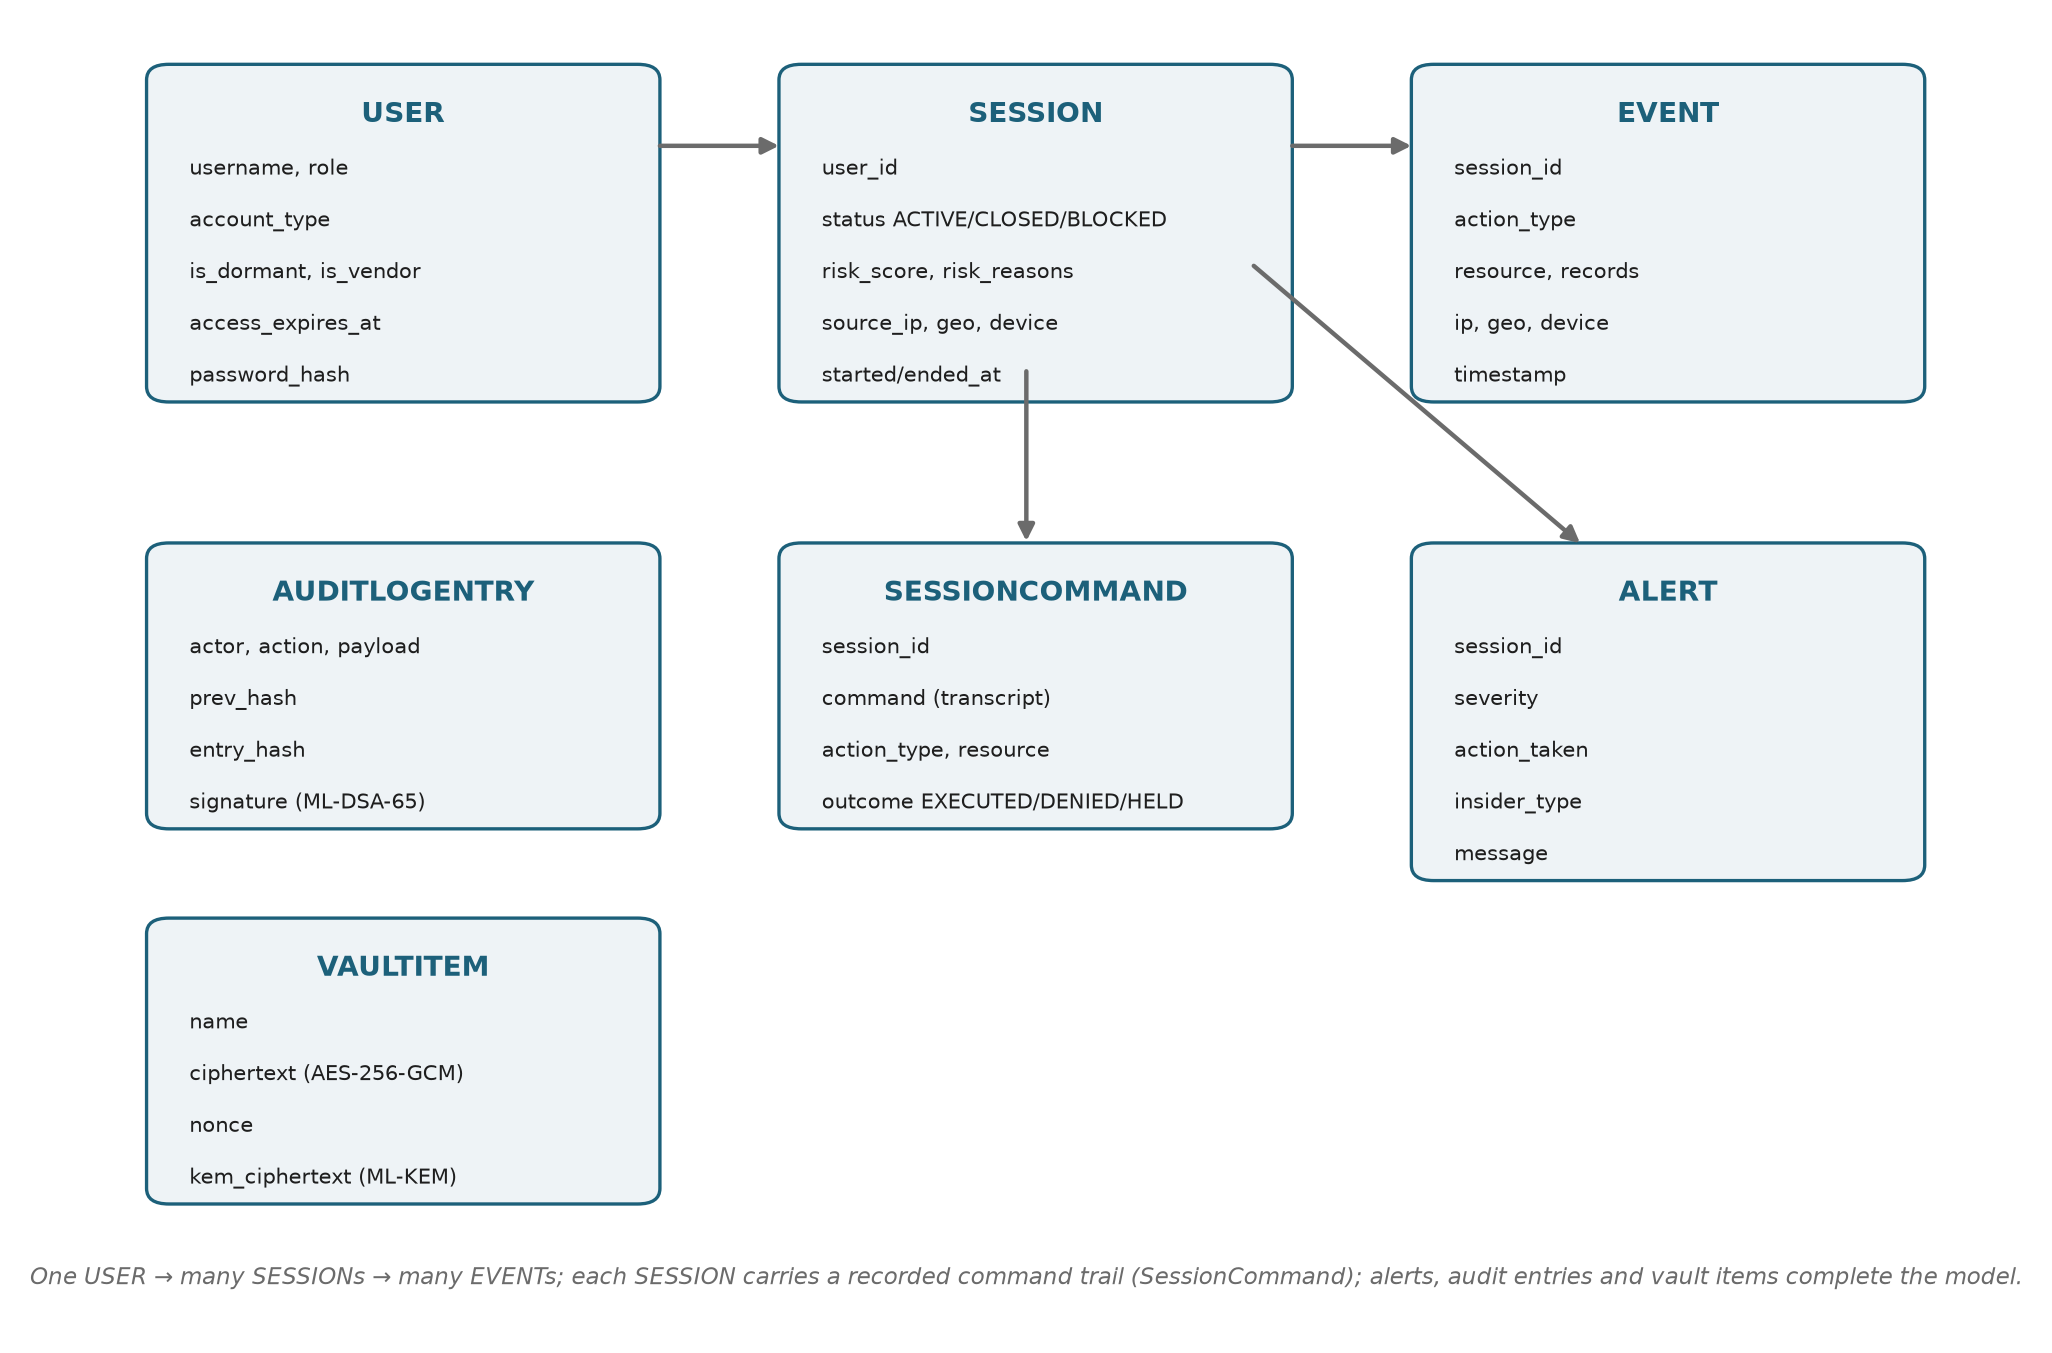
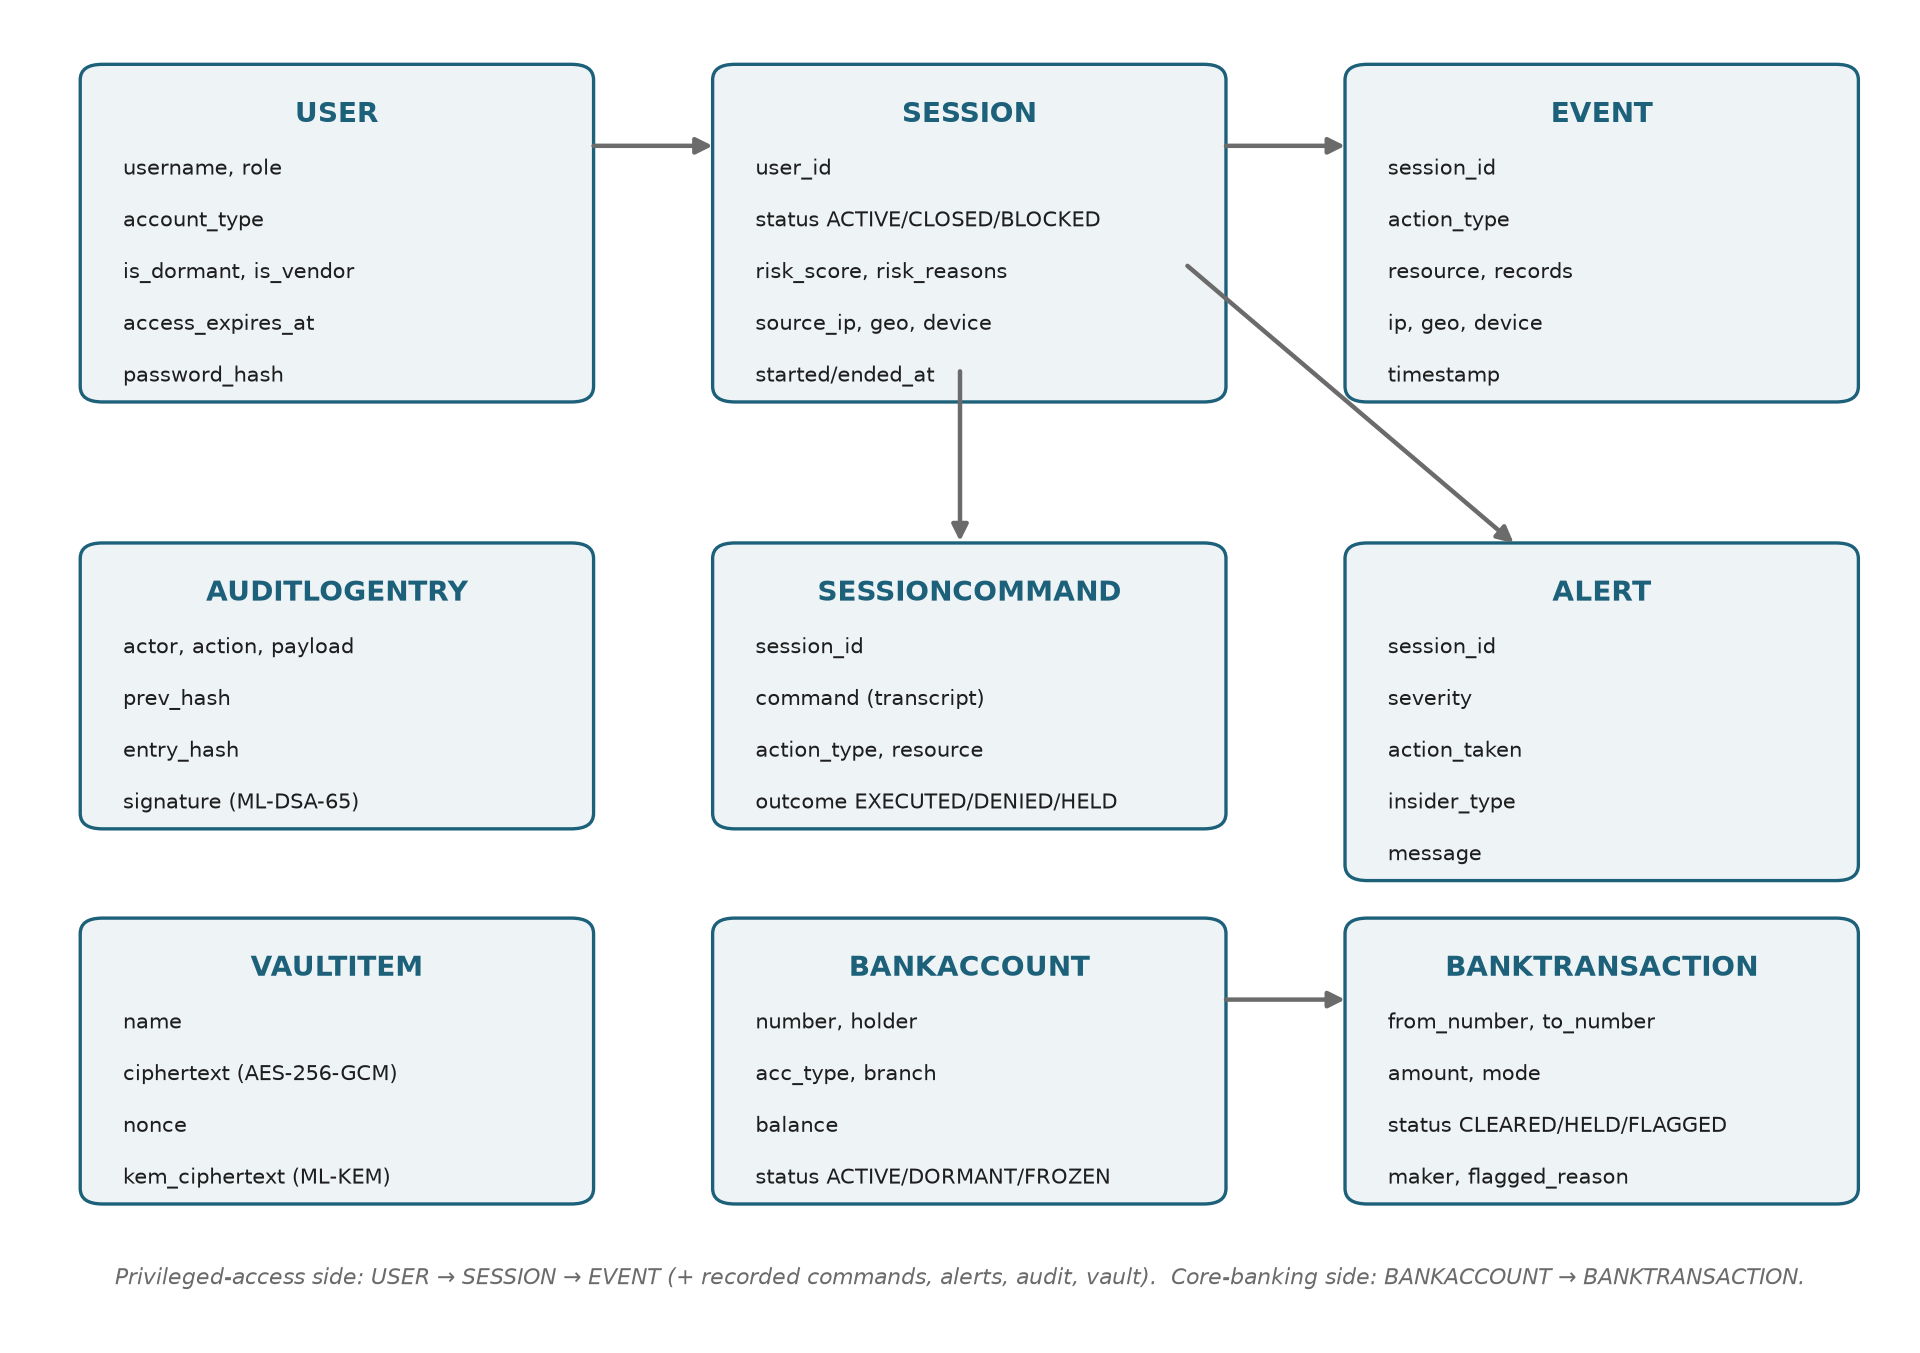
Docs: cover banking desk, portable PQC, model insights & analyst actions
- Technical doc + presentation guide updated to match the shipped product
- New Core-Banking section + 8th diagram (bank_flow); 9 entities in the data model
- Pure-Python PQC fallback (no compiler) documented across both docs
- SOC analyst Lock/Approve/Dismiss, AI Model Insights, impact metrics
- Test count 31 -> 40; two-computer LAN demo note
- Rebuilt both PDFs + DOCX (8 diagrams embedded each)

diff --git a/DOCS/build_diagrams.py b/DOCS/build_diagrams.py
@@ -100,16 +100,40 @@ def datamodel():
     ent(3, 60, "AUDITLOGENTRY", ["actor, action, payload", "prev_hash", "entry_hash", "signature (ML-DSA-65)"])
     ent(37, 60, "SESSIONCOMMAND", ["session_id", "command (transcript)", "action_type, resource", "outcome EXECUTED/DENIED/HELD"])
     ent(71, 60, "ALERT", ["session_id", "severity", "action_taken", "insider_type", "message"])
-    # bottom row
+    # bottom row — vault + the two core-banking tables
     ent(3, 31, "VAULTITEM", ["name", "ciphertext (AES-256-GCM)", "nonce", "kem_ciphertext (ML-KEM)"])
+    ent(37, 31, "BANKACCOUNT", ["number, holder", "acc_type, branch", "balance", "status ACTIVE/DORMANT/FROZEN"])
+    ent(71, 31, "BANKTRANSACTION", ["from_number, to_number", "amount, mode", "status CLEARED/HELD/FLAGGED", "maker, flagged_reason"])
     # relationships
     arrow(ax, 30, 91, 37, 91, GREY); arrow(ax, 64, 91, 71, 91, GREY)
     arrow(ax, 50, 74, 50, 60, GREY)          # SESSION -> SESSIONCOMMAND
     arrow(ax, 62, 82, 80, 60, GREY)          # SESSION -> ALERT
-    ax.text(50, 3, "One USER → many SESSIONs → many EVENTs; each SESSION carries a recorded command trail (SessionCommand); "
-            "alerts, audit entries and vault items complete the model.",
-            ha="center", color=GREY, fontsize=8.2, style="italic")
+    arrow(ax, 64, 25, 71, 25, GREY)          # BANKACCOUNT -> BANKTRANSACTION
+    ax.text(50, 3, "Privileged-access side: USER → SESSION → EVENT (+ recorded commands, alerts, audit, vault).  "
+            "Core-banking side: BANKACCOUNT → BANKTRANSACTION.",
+            ha="center", color=GREY, fontsize=8.0, style="italic")
     save(fig, "datamodel.png")
+
+
+# ---------------------------------------------------------------- banking flow
+def bank_flow():
+    fig, ax = canvas(12, 4.8)
+    box(ax, 3, 60, 22, 16, "Employee submits\ntransfer\n(from → payee, ₹amount)", GREY, fs=9)
+    box(ax, 31, 60, 22, 16, "Banking controls\nfunds · limits · fraud ·\nsession risk", BLUE, fs=9)
+    arrow(ax, 25, 68, 31, 68)
+    outs = [
+        ("CLEARED", GREEN, "white", "money moves,\nledger posted", 60),
+        ("HELD", ORANGE, "white", "maker-checker:\n> ₹2,00,000 held\nfor 2nd approver", 60),
+        ("FLAGGED", RED, "white", "suspected fraud:\nwatch-list / huge /\nhigh-risk session →\nheld + SOC alert", 60),
+    ]
+    ys = [78, 55, 30]
+    for (lbl, col, tc, desc, _), y in zip(outs, ys):
+        box(ax, 62, y, 15, 11, lbl, col, tc=tc, fs=10)
+        box(ax, 79, y, 18, 11, desc, "#F2F2F0", tc=INK, fs=7.4, bold=False, ec="#DDD")
+        arrow(ax, 53, 68, 62, y + 5.5, col if lbl != "CLEARED" else GREEN)
+    ax.text(50, 6, "Held & flagged transfers raise a colour-coded SOC alert and are sealed into the ML-DSA-65 audit chain.",
+            ha="center", color=GREY, fontsize=8.4, style="italic")
+    save(fig, "bank_flow.png")
 
 
 # ---------------------------------------------------------------- scoring
@@ -216,5 +240,5 @@ def live_sequence():
 
 if __name__ == "__main__":
     architecture(); datamodel(); scoring(); insider_types()
-    pqc_vault(); audit_chain(); live_sequence()
+    pqc_vault(); audit_chain(); live_sequence(); bank_flow()
     print("all diagrams written to", OUT)

diff --git a/DOCS/documentation_src.md b/DOCS/documentation_src.md
@@ -14,7 +14,7 @@ date: "Repository: github.com/positromen/FinSpark-26-Trial"
 - **Responds** adaptively — **ALLOW / STEP-UP MFA / MAKER-CHECKER / BLOCK** — tagged with the detected **insider type**.
 - **Protects** its own credentials and audit log with **NIST post-quantum cryptography** (ML-KEM-768 vault and ML-DSA-65 signed hash-chain).
 
-It ships as a real two-sided product: an **Employee Portal** where staff act and enforcement happens live, and a **SOC Console** where analysts watch, replay sessions, review access, and verify the audit chain. It runs **fully offline** on SQLite and is one connection string away from PostgreSQL.
+It ships as a real two-sided product: an **Employee Portal** — a working core-banking desk (accounts, payments, transactions, approvals) where staff act and both fraud controls and insider enforcement happen live — and a **SOC Console** where analysts watch, replay sessions, review access, lock or clear a session, and verify the audit chain. It runs **fully offline** on SQLite and is one connection string away from PostgreSQL. The post-quantum layer needs **no compiler**: it auto-selects a native library when present and falls back to a pure-Python implementation otherwise, so any teammate can launch it.
 
 **All six judged outcomes are delivered:** detect misuse of privileged accounts; identify insider threats in real time; AI-driven behavioural analysis; risk-based access control; protect critical administrative systems; and quantum-proof cryptography for credentials and audit artefacts.
 
@@ -56,20 +56,20 @@ The Employee Portal, and in production any PAM/SIEM feed, map onto the same norm
 | Backend / API | Python 3.14, FastAPI + Uvicorn |
 | Storage | SQLAlchemy ORM · SQLite (default) -> PostgreSQL-swappable |
 | AI / UEBA | scikit-learn IsolationForest + peer baselining |
-| Post-quantum crypto | liboqs-python — ML-KEM-768 (FIPS 203), ML-DSA-65 (FIPS 204); AES-256-GCM |
+| Post-quantum crypto | ML-KEM-768 (FIPS 203), ML-DSA-65 (FIPS 204); AES-256-GCM. Native liboqs when present, else pure-Python (kyber-py / dilithium-py) — no compiler |
 | Authentication | PBKDF2-HMAC-SHA256 passwords + HMAC-signed tokens (standard library) |
 | Real-time | FastAPI WebSocket |
 | Frontend | React 19 + Vite + Tailwind 4 (+ Recharts) |
 | Packaging | Docker + docker-compose · run.ps1 / run.sh |
-| Testing | pytest (31 tests) |
+| Testing | pytest (40 tests) |
 
 # Data Model
 
-Seven ORM entities capture the workforce, their recorded sessions and actions, the detection output, and the post-quantum artefacts.
+Nine ORM entities capture the workforce, their recorded sessions and actions, the detection output, the post-quantum artefacts, and the core-banking ledger.
 
-![Entity model — users, sessions, events, recorded commands, alerts, audit entries and vault items.](img/datamodel.png){width=100%}
+![Entity model — users, sessions, events, recorded commands, alerts, audit entries, vault items, and the bank accounts and transactions.](img/datamodel.png){width=100%}
 
-`SessionCommand` is the **privileged-session recording**: every action writes a realistic command line (for example, `psql core-banking-db -c "COPY customers TO '/tmp/out.csv' CSV;" -- 5000 rows`) with an outcome, so a session replays like a terminal transcript.
+`BankAccount` and `BankTransaction` are the **core-banking ledger** that the Employee Portal reads and writes (see *Core Banking Operations*); `SessionCommand` is the **privileged-session recording**: every action writes a realistic command line (for example, `psql core-banking-db -c "COPY customers TO '/tmp/out.csv' CSV;" -- 5000 rows`) with an outcome, so a session replays like a terminal transcript.
 
 **Seeded cast** (all password `prahari123`):
 
@@ -161,9 +161,41 @@ Key safety properties:
 - **Access review** (`GET /soc/access-review`) — every privileged account with standing-risk flags (DORMANT / VENDOR / EXPIRED) and a risk rating, surfacing lingering access *before* anything happens.
 - **Maker-checker approval** (`POST /soc/sessions/{id}/approve`) — an analyst approves a held session; the approval is written to the signed audit log.
 
+## Analyst response actions
+
+The SOC Console turns a flagged session into a one-click decision, each written to the signed audit log and broadcast live:
+
+- **Lock account** (`POST /soc/sessions/{id}/lock`) — force-blocks the session and disables the account; the next login is refused.
+- **Approve / clear** (`POST /soc/sessions/{id}/approve`) — releases a held session for the maker-checker path.
+- **Dismiss** (`POST /soc/sessions/{id}/dismiss`) — marks a flag as a reviewed false-positive and clears it from the live board.
+
+## Explainable model view
+
+- **Model card** (`GET /soc/sessions/{id}/model`) — the UEBA feature breakdown for the session: each feature's value, the user's own baseline, the peer baseline, and its contribution to the anomaly, so an analyst sees *why the model reacted*, not just the number.
+- **Risk trajectory** (`GET /soc/sessions/{id}/trajectory`) — the score after each action, rendered as a sparkline, showing exactly where the session crossed a response threshold.
+- **Impact metrics** (`GET /soc/metrics`) — a live strip of program impact: sessions watched, threats blocked, money held or flagged, and mean time to decision.
+
+# Core Banking Operations
+
+The Employee Portal is a **working core-banking desk**, not a mock: staff open accounts, move money, and clear approvals against a real ledger (`BankAccount`, `BankTransaction`). This is what makes insider risk concrete — the same transfer that a portal user submits is the one Prahari scores and, when needed, holds or blocks.
+
+![Core-banking flow — a transfer is checked for fraud and privileged-session risk, then cleared, held for maker-checker, or flagged.](img/bank_flow.png){width=100%}
+
+Every transfer (`POST /bank/transfer`) runs three gates in `app/bank.py` before money moves:
+
+| Outcome | Trigger | Effect |
+|---|---|---|
+| **FLAGGED** (fraud) | watchlisted beneficiary, amount >= Rs 10,00,000, or live session risk >= 70 | money does **not** move; a **CRITICAL** alert is raised to the SOC |
+| **HELD** (maker-checker) | amount > Rs 2,00,000 | money does **not** move; queued for a second officer to approve or reject |
+| **CLEARED** | none of the above, sufficient funds, active source account | money moves immediately |
+
+Insufficient funds or a frozen source account are refused outright. Held transfers settle only on `POST /bank/transactions/{id}/approve` (a different officer) and reverse on `.../reject`. A high-value or fraudulent transfer **flashes a banner** in the portal and surfaces as a typed alert in the SOC, closing the loop between the banking floor and the analyst.
+
 # Post-Quantum Security Layer
 
 All post-quantum operations sit behind one abstraction, `app/security/pqc.py`, exposing `kem_keypair`, `kem_encapsulate`, `kem_decapsulate`, `sign`, and `verify` over **ML-KEM-768** (FIPS 203) and **ML-DSA-65** (FIPS 204).
+
+**Portable by design — no compiler required.** The module selects a provider at import time: a **native liboqs** binding if one is installed, otherwise a **pure-Python** implementation (`kyber-py` / `dilithium-py`). Nothing to build, no C toolchain, no `cmake` — so a teammate cloning the repo never hits the *"No oqs shared libraries found"* wall. `GET /pqc/info` reports the active provider, and `PRAHARI_PQC=pure` forces the fallback for a reproducible demo. The two providers are interchangeable and the same FIPS algorithms and test suite cover both.
 
 ## Credential vault
 
@@ -200,7 +232,17 @@ This layer is demo-grade by design; a production deployment swaps in the bank's 
 | GET | /soc/access-review | analyst | PAM dormant / vendor / expired table |
 | GET | /soc/sessions/{id}/commands | analyst | session recording replay |
 | GET | /soc/sessions/{id}/events | analyst | session events |
-| POST | /soc/sessions/{id}/approve | analyst | maker-checker approval |
+| POST | /soc/sessions/{id}/approve | analyst | approve / clear a held session |
+| POST | /soc/sessions/{id}/lock | analyst | force-block session + disable account |
+| POST | /soc/sessions/{id}/dismiss | analyst | mark a flag reviewed (false-positive) |
+| GET | /soc/sessions/{id}/model | analyst | UEBA feature breakdown (explainable) |
+| GET | /soc/sessions/{id}/trajectory | analyst | per-action score trajectory |
+| GET | /soc/metrics | analyst | live impact metrics strip |
+| GET | /bank/accounts, /transactions | employee | account list / ledger |
+| GET | /bank/pending, /beneficiaries | employee | held queue / payees |
+| POST | /bank/transfer | employee | submit a transfer -> fraud + risk gated |
+| POST | /bank/transactions/{id}/approve | employee | settle a held transfer (second officer) |
+| POST | /bank/transactions/{id}/reject | employee | reverse a held transfer |
 | POST | /demo/scenario/{kind} | analyst | run scripted malicious / compromised / negligent |
 | POST | /demo/tamper | analyst | edit an audit entry (proves detection) |
 | GET | /audit, /audit/verify | analyst | list / verify the signed chain |
@@ -216,8 +258,8 @@ Interactive API docs are served at `/docs` (FastAPI / OpenAPI).
 React 19 + Vite + Tailwind 4, dark SOC theme, served by FastAPI from `frontend/dist` (same-origin, offline).
 
 - **Login** (`pages/Login.jsx`) — role-routed, with a demo-account helper.
-- **Employee Portal** (`pages/Portal.jsx`) — action console, connection badge, live risk gauge, activity timeline, MFA modal, maker-checker banner, and a full-screen BLOCK overlay.
-- **SOC Console** (`pages/SocConsole.jsx`) — three scenario buttons, an audit banner, and panels: live sessions (typed), risk gauge, why-flagged, alerts (typed), timeline, session recording (terminal replay), heatmap, and access review.
+- **Employee Portal** (`pages/Portal.jsx`) — a working banking desk (Accounts, Payments, Transactions, Approvals) with a fraud/high-value **flash banner** and live KPIs, plus the privileged-action console: connection badge, live risk gauge, activity timeline, MFA modal, maker-checker banner, and a full-screen BLOCK overlay.
+- **SOC Console** (`pages/SocConsole.jsx`) — three scenario buttons, an audit banner, an impact-metrics strip, one-click **Lock / Approve / Dismiss** response actions with toast feedback, an **AI Model Insights** panel (feature breakdown + baselines) and risk-trajectory sparkline, and panels: live sessions (typed), risk gauge, why-flagged, alerts (typed), timeline, session recording (terminal replay), heatmap, and access review.
 
 The colour system reserves status colours (good / warning / serious / critical), colour-codes insider types (malicious red, compromised blue, negligent amber), uses tabular numerics, flashes on new alerts, and never encodes meaning by colour alone.
 
@@ -255,25 +297,26 @@ The colour system reserves status colours (good / warning / serious / critical),
 docker compose up --build      # container alternative
 ```
 
-Then open `http://127.0.0.1:8000`. The first run on a fresh machine needs internet once (pip install plus a one-time liboqs build); afterwards it is fully offline. Run tests with `.venv/Scripts/python -m pytest`.
+Then open `http://127.0.0.1:8000`. The first run on a fresh machine needs internet once for `pip install` — there is **no compiler step** (the post-quantum layer ships a pure-Python fallback); afterwards it is fully offline. For a two-computer LAN demo the server binds `0.0.0.0` so a second machine reaches it at `http://<host-ip>:8000`. Run tests with `.venv/Scripts/python -m pytest`.
 
 # Testing
 
-The suite contains **31 pytest tests**, including:
+The suite contains **40 pytest tests**, including:
 
 - **test_simulator** — user seeding, normal-day realism, determinism.
 - **test_detection** — every rule, normal-versus-attack scoring, quiet-on-normal.
 - **test_scenarios** — the three insider scenarios land on distinct, correct paths and the type-aware policy holds (negligence never auto-blocks), on an independent seed.
 - **test_phase3** — attack block, alert, and the WebSocket loop.
 - **test_portal** — authentication, role gating, live enforcement, MFA without event stacking, and blocked-stays-locked.
-- **test_pqc** — KEM round-trip, sign/verify with forgery rejection, vault round-trip, and audit chain clean / tamper / signature-forgery.
+- **test_pqc** — KEM round-trip, sign/verify with forgery rejection, vault round-trip, and audit chain clean / tamper / signature-forgery (run against both PQC providers).
+- **test_bank** — transfers move money, high-value holds, watchlist / huge-amount / high-risk-session transfers flag, held transfers settle on approval, and insufficient-funds / frozen-account transfers are refused.
 
 # Demo Walkthrough
 
 Full narration is in `DEMO_SCRIPT.md`. In brief (two browser windows, side by side):
 
 1. **SOC Console** (`soc_admin`) — quiet, with a green heatmap.
-2. **Employee Portal** (`rmehta`) — a normal query is ALLOWED; an export of 1000 records triggers STEP-UP MFA (code `246810`).
+2. **Employee Portal** (`rmehta`) — a normal query is ALLOWED; an export of 1000 records triggers STEP-UP MFA (code `246810`). On the **banking desk**, a small transfer clears instantly, a high-value one is **HELD** for maker-checker, and a transfer to a watchlisted payee is **FLAGGED** and flashes a banner — surfacing as a CRITICAL alert in the SOC.
 3. **Attacker** (`ext_dsouza`) — escalate then export 5000 records -> full-screen BLOCK; the account is locked.
 4. **SOC lights up** — a red live session at 100, a flashed CRITICAL alert tagged `malicious`, the why-flagged panel, the session replay (export struck through as DENIED), and a red heatmap cell.
 5. **Two more insider types** — the SOC buttons run Compromised -> MFA and Negligent -> maker-checker, each correctly typed.
@@ -295,6 +338,7 @@ PRAHARI/
   app/
     main.py               FastAPI app + lifespan + static UI mount
     config.py             pydantic settings (.env)
+    bank.py               core-banking engine (transfers, maker-checker, fraud)
     pam.py                session-command recording + access review
     api/routes.py         REST + WebSocket endpoints
     api/ws.py             WebSocket broadcast manager
@@ -305,12 +349,12 @@ PRAHARI/
     detection/live.py     live per-action scoring & enforcement
     models/entities.py    ORM entities
     security/auth.py      PBKDF2 passwords + HMAC tokens
-    security/pqc.py       ML-KEM-768 / ML-DSA-65 abstraction
+    security/pqc.py       ML-KEM-768 / ML-DSA-65 (native or pure-Python)
     security/vault.py     quantum-safe credential vault
     security/audit.py     hash-chained + signed audit log
     simulator/            normal-day generator, 3 scenarios, seeder
   frontend/               React app (pages/ + components/) + prebuilt dist/
-  tests/                  31 pytest tests
+  tests/                  40 pytest tests
   docs/                   this documentation + submission deck
   DOCUMENTATION.md  DEMO_SCRIPT.md  PROJECT_STATUS.md  README.md
   run.ps1  run.sh  Dockerfile  docker-compose.yml  requirements.txt

diff --git a/DOCS/Prahari_Presentation_and_Project_Guide.md b/DOCS/Prahari_Presentation_and_Project_Guide.md
@@ -11,7 +11,7 @@ This document has five parts. Read them in order the first time; after that, jum
 
 1. **The whole project in plain words** — what Prahari is, told like a story, with everyday examples.
 2. **The 16 slides** — for *each* slide: what it is for, what you **must** put on it, what you **could** add, and a simple script of **what to say** out loud.
-3. **Every diagram explained simply** — all seven pictures, walked through box by box.
+3. **Every diagram explained simply** — all eight pictures, walked through box by box.
 4. **Every word explained simply** — a plain-English dictionary of every technical term we use.
 5. **Cheat-sheet** — the exact numbers, names, passwords and facts to memorise.
 
@@ -52,10 +52,10 @@ Prahari (a Hindi word meaning **"sentinel / guard"**) sits *between* the privile
 
 It is a working **two-sided web app**:
 
-- The **Employee Portal** — what a bank staff member sees. They log in and do their job. Every action is scored and enforced *live*.
-- The **SOC Console** — what the **Security Operations Centre** analyst sees. A live control room: which sessions are active, their risk, alerts, the AI's reasoning, the session replay, a risk heatmap, the access review, and the quantum-safe audit log.
+- The **Employee Portal** — what a bank staff member sees. It is a **real banking desk**: they log in, open accounts, move money, and clear approvals — and every action is scored and enforced *live*. A big transfer is held for a second officer, and a suspicious one is flagged and **flashes a red banner** on the screen.
+- The **SOC Console** — what the **Security Operations Centre** analyst sees. A live control room: which sessions are active, their risk, alerts, the AI's reasoning (an **AI Model Insights** panel that shows *which behaviours* moved the score), one-click **Lock / Approve / Dismiss** buttons, an impact-metrics strip, the session replay, a risk heatmap, the access review, and the quantum-safe audit log.
 
-You can run it on **two computers at once** on the same Wi-Fi: an employee acts on one, and the security team watches it happen **live** on the other, with no refreshing.
+You can run it on **two computers at once** on the same Wi-Fi: an employee acts on one, and the security team watches it happen **live** on the other, with no refreshing. And it starts on **any computer with no compiler or special setup** — the quantum-safe crypto has a built-in pure-Python fallback, so a teammate never hits a build error.
 
 ## The six things the competition asked for — all done
 
@@ -117,7 +117,7 @@ NEED — Must include:
 
 - **Assumption:** privileged activity is available as a stream of events. For the demo, a built-in **simulator** produces it; in production it comes from the bank's **PAM/SIEM** logs.
 - **Inputs per event:** who (user), what (action), which system (resource), how much data (records touched), from where (IP/location), on what (device), and when (timestamp).
-- **Environment:** Python 3.11+, a browser; runs **fully offline** on SQLite. One-time internet only to install and to build the quantum library.
+- **Environment:** Python 3.11+, a browser; runs **fully offline** on SQLite. One-time internet only to `pip install` — **no compiler / build step** (the quantum library has a pure-Python fallback).
 
 OPTIONAL — Could include: access to the IAM directory (roles, vendor/dormant flags, access-expiry dates); no secrets stored in the repo; `.env`-based config.
 
@@ -132,15 +132,16 @@ NEED — Must include (a simple table works):
 
 - **Backend:** Python, **FastAPI** (web server), **SQLAlchemy** (database), **SQLite** (storage, swappable to PostgreSQL).
 - **AI:** **scikit-learn IsolationForest** + per-user behavioural baselines.
-- **Post-quantum crypto:** **liboqs** — **ML-KEM-768** (FIPS 203) and **ML-DSA-65** (FIPS 204); **AES-256-GCM** for the payload.
+- **Post-quantum crypto:** **ML-KEM-768** (FIPS 203) and **ML-DSA-65** (FIPS 204); **AES-256-GCM** for the payload. Native **liboqs** when installed, else a **pure-Python** provider (`kyber-py` / `dilithium-py`) — no compiler.
+- **Banking:** a real ledger (accounts + transactions) with maker-checker and fraud controls.
 - **Real-time:** **WebSocket**.
 - **Frontend:** **React + Vite + Tailwind**.
-- **Testing:** **pytest — 31 automated tests.**
+- **Testing:** **pytest — 40 automated tests.**
 
 OPTIONAL — Could include: PBKDF2 password hashing + signed tokens; Docker; one-command run script.
 
 SCRIPT — Say this:
-> "Standard, production-grade tools. Python and FastAPI for the backend, scikit-learn's IsolationForest for the AI, React for the two dashboards, and — the special part — real NIST post-quantum algorithms via liboqs. Everything is covered by 31 automated tests."
+> "Standard, production-grade tools. Python and FastAPI for the backend, scikit-learn's IsolationForest for the AI, React for the two dashboards, a real banking ledger under the portal, and — the special part — real NIST post-quantum algorithms, which fall back to a pure-Python build so they run on any laptop with no compiler. Everything is covered by 40 automated tests."
 
 ## Slide 5 — Supporting Functional Documents
 
@@ -168,7 +169,8 @@ NEED — Must include — **Differentiators:**
 - We handle **all three insider types**, each with a **different, correct response** — most tools only do anomaly detection.
 - **Explainable AI** — every score comes with plain-English reasons and per-user factors, not a black box.
 - **Real PAM features** — session **recording/replay** and an **access review** — plus **live enforcement** that blocks the action mid-way.
-- **Working post-quantum** vault and tamper-evident audit log.
+- **A real banking desk, not a mock** — staff actually move money; a high-value transfer is **held** for a second officer and a suspicious one is **flagged** and flashed, so insider risk is shown on real transactions.
+- **Working post-quantum** vault and tamper-evident audit log — with a **pure-Python fallback so it runs on any machine with no compiler**.
 
 **Adoption plan (low risk -> high):**
 
@@ -189,12 +191,12 @@ NEED — Must include:
 
 - **`github.com/positromen/FinSpark-26-Trial`**
 - The **architecture diagram** (see Part 3, Diagram 1).
-- A note: **one-command offline run; 31 tests; prebuilt UI committed.**
+- A note: **one-command offline run; 40 tests; prebuilt UI committed.**
 
 OPTIONAL — Could include: the demo accounts table; a QR code to the repo.
 
 SCRIPT — Say this:
-> "Here is the repository. It runs with a single command, fully offline, and ships with 31 passing tests and the prebuilt UI. This is our architecture at a glance — I'll walk through it properly on the architecture slide."
+> "Here is the repository. It runs with a single command, fully offline, and ships with 40 passing tests and the prebuilt UI. This is our architecture at a glance — I'll walk through it properly on the architecture slide."
 
 ## Slide 8 — Business Potential and Relevance
 
@@ -233,7 +235,7 @@ GOAL — *How users interact; why it is simple.*
 NEED — Must include:
 
 - **Two role-based experiences, one login.**
-- **Employee Portal:** a clean action console; feedback is instant and obvious — green *allowed*, an amber **MFA pop-up**, an orange **held-for-approval**, or a full-screen red **BLOCKED**.
+- **Employee Portal:** a real banking desk (**Accounts, Payments, Transactions, Approvals**) plus the action console; feedback is instant and obvious — green *allowed*, an amber **MFA pop-up**, an orange **held-for-approval**, a red **flagged/fraud flash banner**, or a full-screen red **BLOCKED**.
 - **SOC Console:** one screen of situational awareness — live sessions, risk gauge, typed alerts, the AI's reasoning, timeline, session replay, heatmap, access review, and one-click **Lock / Approve / Dismiss** with confirmation.
 - Colour-coded insider types; new alerts **flash**; everything is explained in plain words.
 
@@ -264,13 +266,15 @@ GOAL — *How practical to implement, run, maintain.*
 NEED — Must include:
 
 - **One command** (`run.ps1` / `run.sh`) sets up everything and runs **fully offline**.
+- **No compiler, no build step** — the post-quantum layer auto-falls-back to pure Python, so it starts on any teammate's machine (no *"oqs shared libraries not found"* wall).
+- **Two-computer LAN demo** — the server binds `0.0.0.0`, so a second machine watches live at `http://<host-ip>:8000`.
 - **Docker** ready.
 - Config via `.env`; **no secrets in the repo**.
-- Small, modular, **type-hinted** code; **31 automated tests** guard every change.
-- Post-quantum crypto sits behind **one swappable module**.
+- Small, modular, **type-hinted** code; **40 automated tests** guard every change.
+- Post-quantum crypto sits behind **one swappable module** (native library *or* pure Python).
 
 SCRIPT — Say this:
-> "One command brings up the database, the AI, both dashboards and the API — offline. It's containerised, fully tested, and the crypto is behind a single interface so providers can be swapped without touching the app. A new engineer can run it in under a minute."
+> "One command brings up the database, the AI, both dashboards and the API — offline, with no compiler needed, so it runs on any laptop. It's containerised, fully tested, and the crypto is behind a single interface with a pure-Python fallback, so providers swap without touching the app. A new engineer can run it in under a minute, and two computers can share one live demo over Wi-Fi."
 
 ## Slide 13 — Security Considerations
 
@@ -326,7 +330,7 @@ SCRIPT — Say this:
 
 # PART 3 — Every diagram explained simply
 
-We have **seven** diagrams. For each: what it is, a walk through every box, and why it matters. Imagine each picture is a little comic strip that reads left-to-right and top-to-bottom.
+We have **eight** diagrams. For each: what it is, a walk through every box, and why it matters. Imagine each picture is a little comic strip that reads left-to-right and top-to-bottom.
 
 ## Diagram 1 — System Architecture (the big picture)
 
@@ -347,9 +351,9 @@ Think of a **factory conveyor belt** with six stations. A "raw material" (a priv
 
 ## Diagram 2 — Data Model (the database tables)
 
-![Entity model — the seven tables and how they connect.](img/datamodel.png){width=100%}
+![Entity model — the nine tables and how they connect.](img/datamodel.png){width=100%}
 
-This is the **filing-cabinet layout** — seven drawers and how they reference each other.
+This is the **filing-cabinet layout** — nine drawers and how they reference each other.
 
 - **USER** — every privileged person: their name, role, whether they are dormant or a vendor, and when their access **expires**. *(The staff directory.)*
 - **SESSION** — one login-to-logout window: its status (active/closed/**blocked**), its risk score, and where it came from (IP, location, device). *(One visit to the building.)*
@@ -358,8 +362,10 @@ This is the **filing-cabinet layout** — seven drawers and how they reference e
 - **ALERT** — a warning raised for a risky session: severity, the action taken, and the insider **type**. *(The note the guard writes.)*
 - **AUDITLOGENTRY** — one tamper-proof record: who/what/when, the **hash of the previous entry**, and a **post-quantum signature**. *(A page in a sealed logbook where every page locks the one before it.)*
 - **VAULTITEM** — one stored secret, encrypted; the key is sealed with post-quantum crypto. *(A locked box inside the safe.)*
+- **BANKACCOUNT** — a real bank account: number, holder, type, branch, balance, and status (active/frozen). *(A customer's passbook.)*
+- **BANKTRANSACTION** — one money movement: from/to, amount, mode, status (**cleared / held / flagged**), who made it, and any fraud reason. *(A line in the bank ledger.)*
 
-The **arrows** mean "one-to-many": one USER has many SESSIONS; one SESSION has many EVENTS and a command recording. **Why it matters:** it proves the data is properly structured and that "session recording" and "access expiry" are first-class, real features — not just words.
+The **arrows** mean "one-to-many": one USER has many SESSIONS; one SESSION has many EVENTS and a command recording; one BANKACCOUNT has many BANKTRANSACTIONS. **Why it matters:** it proves the data is properly structured and that "session recording," "access expiry," and a **real banking ledger** are first-class features — not just words.
 
 ## Diagram 3 — Scoring Pipeline (how the number is made)
 
@@ -439,6 +445,19 @@ Because each page locks the page before it (like a blockchain) **and** each page
 
 **Why it matters:** in the live demo you click **Tamper**, and the chain instantly turns red at entry #1 — a dramatic, undeniable proof.
 
+## Diagram 8 — Core-Banking Transfer Flow (money meets the guard)
+
+![Core-banking flow — a transfer is checked for fraud and session risk, then cleared, held, or flagged.](img/bank_flow.png){width=100%}
+
+This is what happens when a portal user clicks **Send** on a transfer. Read it top to bottom — one payment walks through three gates before any money moves.
+
+1. **A transfer is submitted** (from account, to a payee, an amount, a mode like NEFT/RTGS).
+2. **Fraud check.** Is the payee on the **watchlist**? Is the amount **huge** (>= Rs 10,00,000)? Is the **live session risk high** (>= 70, i.e. the insider engine already distrusts this session)? If any is true -> **FLAGGED**: the money does **not** move and a **CRITICAL** alert flashes to the SOC.
+3. **High-value check.** If it's large (> Rs 2,00,000) -> **HELD**: parked for a **second officer** to approve or reject (maker-checker). Nothing moves yet.
+4. **Otherwise -> CLEARED:** the money moves immediately (assuming funds are there and the account isn't frozen).
+
+**Why it matters:** it shows the insider engine and the banking floor are **one loop** — the same risk score that flags a session also **stops the money**. The judges see fraud controls acting on *real transactions*, not a toy demo.
+
 ---
 
 # PART 4 — Every word explained simply
@@ -473,6 +492,13 @@ Because each page locks the page before it (like a blockchain) **and** each page
 - **FastAPI / Uvicorn** — the Python web-server tools serving the API.
 - **SQLite / PostgreSQL** — the database; SQLite for the offline demo, Postgres for scale.
 - **SIEM** — a bank's central log-collection system; a real source of the events we score.
+- **Core-banking desk** — the working Accounts / Payments / Transactions / Approvals screens in the Employee Portal, backed by a real ledger.
+- **Maker-checker (banking)** — a large transfer is **held** until a *second* officer approves it; the maker cannot approve their own.
+- **Flagged / fraud** — a transfer to a watchlisted payee, a huge amount, or one from a high-risk session; the money is stopped and a CRITICAL alert flashes to the SOC.
+- **AI Model Insights** — the SOC panel that shows *which* behaviours (features) moved the score, each versus the user's own baseline and their peers — the explainable face of the AI.
+- **Risk trajectory** — the little sparkline of how the score climbed action by action, showing where it crossed a response threshold.
+- **Impact metrics** — the live strip of program value: sessions watched, threats blocked, money held/flagged, mean time to decision.
+- **PQC provider fallback** — if the native crypto library isn't installed, Prahari uses a **pure-Python** one automatically; no compiler, so it runs on any machine.
 
 ---
 
@@ -505,9 +531,11 @@ Because each page locks the page before it (like a blockchain) **and** each page
 
 **Score formula:** `min(rule points (cap 80) + 0.25 × AI anomaly + 10 peer bonus, 100)`.
 
-**Crypto:** vault = **ML-KEM-768 + AES-256-GCM**; audit = **ML-DSA-65** signatures over a **hash chain**.
+**Banking demo:** on the portal's **Payments** tab — a small transfer **clears**, one over Rs 2,00,000 is **HELD** for a second officer, and one to a watchlisted payee is **FLAGGED** and flashes a red banner + a CRITICAL SOC alert.
 
-**Proof it works:** **31 automated tests** pass; the three scenarios land on **three different** responses; **tamper** breaks the audit chain instantly; runs **fully offline**; works **live across two computers**.
+**Crypto:** vault = **ML-KEM-768 + AES-256-GCM**; audit = **ML-DSA-65** signatures over a **hash chain**. **No compiler needed** — native library or a pure-Python fallback (`GET /pqc/info` shows which).
+
+**Proof it works:** **40 automated tests** pass; the three scenarios land on **three different** responses; a flagged transfer stops real money; **tamper** breaks the audit chain instantly; runs **fully offline** with **no build step**; works **live across two computers**.
 
 **Six judged outcomes — all delivered:** detect misuse · real-time · AI behavioural · risk-based access control · protect admin systems · quantum-proof crypto.
 